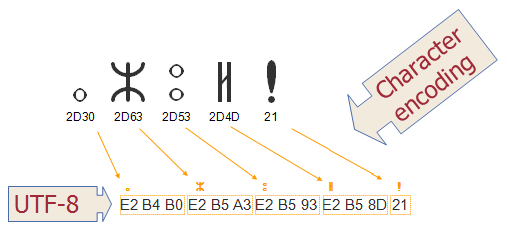
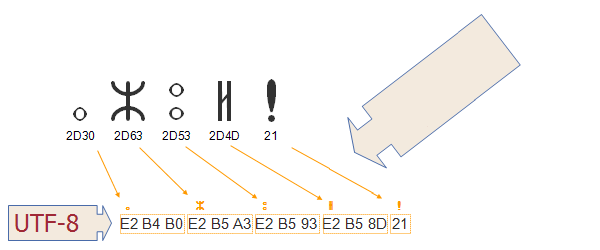
articles/definitions-characters, Convert 3 more pictures to svg to make translation easier

diff --git a/articles/definitions-characters/index.fr.html b/articles/definitions-characters/index.fr.html
@@ -72,8 +72,18 @@ th.bytes { font-size: 20px; }
   <p>Le <a class="print" href="http://www.unicode.org/">Consortium Unicode</a> offre un jeu de caractères unique et de grande taille qui vise à inclure tous les caractères nécessaires à tous les systèmes d’écriture du monde, y compris les écritures anciennes telles que le cunéiforme, le gothique et les hiéroglyphes égyptiens. Ce jeu de caractères est maintenant fondamental pour l’architecture du Web et les systèmes d’exploitation et est pris en charge par la majorité des navigateurs web et autres applications. Le <a class="print" href="http://www.unicode.org/standard/standard.html">Standard Unicode</a> décrit par ailleurs les propriétés et algorithmes requis pour travailler avec les caractères.</p>
   <p>Cette approche facilite considérablement la gestion des pages et systèmes multilingues et offre une bien meilleure réponse aux besoins que la plupart des anciens systèmes d’encodage. </p>
   <p>Voici une illustration des blocs d’écriture Unicode dans sa version 5.2&nbsp;:</p>
-  <p><img src="index-data/unicodeblocks.png" alt="Blocs Unicode" /></p>
-  <div class="sidenoteGroup">
+<div style="margin-left: 7.5%;">
+<svg width="600px" height="450px" xmlns="http://www.w3.org/2000/svg" viewBox="0 0 600 450"> 
+  
+  <image xlink:href="index-data/unicodeblocks.png" alt="Blocs Unicode." x="0" y="0" width="533" height="419"/> 
+  <use xlink:href="#arrowRight" x="155" y="25"></use> 
+<text x="355" y="80" style="font-weight:normal; font-size:24px;text-align:left; fill:#9f2936; text-anchor: center;">Unicode</text> 
+</svg>
+</div>
+  
+  
+  
+<div class="sidenoteGroup">
     <p>Les 65 536&nbsp;premières positions de points de code dans le jeu de caractères Unicode sont considérées comme constituant le <dfn>Plan multilingue de base (Basic Multilingual Plane - BMP)</dfn>. Le BMP inclut la plupart des caractères les plus courants.</p>
     <div class="sideinfonote"><p class="info">Le nombre 65 536&nbsp;correspond à 2 à la puissance 16, en d’autres termes, c’est le nombre maximal de permutations que l’on peut obtenir avec 2 octets.</p></div>
   </div>
@@ -81,7 +91,7 @@ th.bytes { font-size: 20px; }
   
   
   <div style="margin-left: 7.5%;">
-  <svg width="750px" height="450px" xmlns="http://www.w3.org/2000/svg" viewBox="0 0 600 450"> 
+  <svg width="600px" height="450px" xmlns="http://www.w3.org/2000/svg" viewBox="0 0 600 450"> 
   
   <image xlink:href="index-data/unicodeplanes.png" alt="Les 17 plans du jeu de caractères Unicode." x="0" y="0" width="533" height="419"/> 
   <use xlink:href="#arrowRight" x="155" y="25"></use> 
@@ -105,13 +115,33 @@ th.bytes { font-size: 20px; }
   <p>Un <dfn>jeu de caractères</dfn> ou <dfn>répertoire</dfn> comprend l’ensemble des caractères que l’on souhaite utiliser dans un but donné, que ce soit les caractères nécessaires à la prise en charge des langues d’Europe occidentale dans un ordinateur, ou ceux qu’un enfant chinois doit apprendre à l’école primaire (sans aucun rapport avec les ordinateurs).</p>
   <p>Un <dfn>jeu de caractères encodé</dfn> est un jeu de caractères dans lequel un numéro unique a été associé à chaque caractère. On appelle <dfn>point de code</dfn> l’unité d’un tel ensemble et valeur du point de code la position du caractère dans cet ensemble. Par exemple, le point de code pour la lettre <span class="qchar">á</span> dans le jeu de caractères encodé Unicode a pour valeur 225 en notation décimale et 0xE1  en notation hexadécimale. Remarquons que la notation hexadécimale est fréquemment utilisée pour se référer à des valeurs de points de code et sera adoptée ici. Un point de code Unicode peut avoir une valeur comprise entre 0x0000 et 0x10FFF.</p><p>On appelle également pages de code les jeux de caractères encodés. </p>
   <p>Un <dfn>encodage de caractères</dfn> est une méthode pour associer les jeux de caractères encodés à des octets pour manipulation dans un ordinateur. L’image ci-dessous illustre la manière dont les caractères et les points de code en écriture tifinagh (berbère) sont associés à des séquences d’octets en mémoire à l’aide de l’encodage UTF-8. Les valeurs de point de code pour chaque caractère sont données directement sous le glyphe du caractère (c.-à-d sa représentation graphique) au sommet du diagramme. Les flèches montrent comment les valeurs de point de code sont associées à des séquences d’octets représentés par un nombre hexadécimal à deux chiffres. On remarque que les points de code du tifinagh sont associés à trois octets, mais que le point d’exclamation est associé à un seul octet.</p>
-  <p><img src="index-data/encodings-utf8.png" alt="Les caractères sont associés à des octets." /></p>
-  <p>Ces explications ne font que survoler une partie de la terminologie en rapport avec les encodages. Vous pouvez trouver plus d’informations dans le <a class="print" href="http://unicode.org/reports/tr17/"><cite>Unicode Technical Report #17</cite></a>. </p>
+<div style="margin-left: 7.5%;">
+<svg width="600px" height="250px" xmlns="http://www.w3.org/2000/svg" viewBox="0 0 600 250"> 
+  
+  <image xlink:href="index-data/encodings-utf8.png" alt="Les caractères sont associés à des octets." x="0" y="0" width="600" height="250"/> 
+  <use xlink:href="#arrowRight" x="155" y="25"></use> 
+  <text x="390" y="120" style="font-weight:normal; font-size:20px;text-align:left; fill:#9f2936; text-anchor: center;" transform="rotate(-40,390,120)">Encodage de</text> 
+  <text x="405" y="138" style="font-weight:normal; font-size:20px;text-align:left; fill:#9f2936; text-anchor: center;" transform="rotate(-40,405,138)">caractères</text> 
+  </svg>
+</div>
+  
+  
+<p>Ces explications ne font que survoler une partie de la terminologie en rapport avec les encodages. Vous pouvez trouver plus d’informations dans le <a class="print" href="http://unicode.org/reports/tr17/"><cite>Unicode Technical Report #17</cite></a>. </p>
   <p><span class="leadin"><a name="multipleencodings" id="multipleencodings">Un jeu de caractères, plusieurs encodages.</a></span> De nombreux standards d’encodage de caractères, tels que ceux de la série ISO 8859, utilisent un seul octet pour chaque caractère. L’encodage est alors une association simple avec la position scalaire du caractère dans le jeu de caractères encodé. Par exemple, dans le jeu de caractères encodé ISO 8859-1 la lettre <span class="qchar">A</span> est en 65e position (à partir de zéro) et pour sa représentation dans l’ordinateur est encodée à l’aide d’un octet dont la valeur est 65. Pour le jeu de caractères encodé ISO 8859-1, cette valeur ne change jamais.</p>
   <p>Pour Unicode, cependant, les choses ne sont pas aussi simples. Bien que le point de code pour la lettre <span class="qchar">á</span> dans le jeu de caractères encodé Unicode est 225 (en notation décimale), en UTF-8 et dans l’ordinateur elle est représentée par deux octets. En d’autres termes, pour un caractère donné il n’existe pas d’association simple biunivoque entre sa valeur dans le jeu de caractères encodé et sa valeur encodée.</p>
   <p>De plus, en Unicode, il existe plusieurs méthodes d’encodage pour un même caractère. Par exemple, la lettre <span class="qchar">á</span> peut être représentée par deux octets dans un encodage et par quatre dans un autre. Les <dfn>formes d’encodage</dfn> utilisable avec Unicode sont appelées UTF-8, UTF-16 et UTF-32.</p>
-  <p><img src="index-data/encodings.png" alt="Les caractères sont associés à des octets." /></p>
-  <p>UTF-8 utilise 1 octet pour représenter les caractères du jeu ASCII, deux octets pour les caractères de certains autres blocs alphabétiques et trois octets pour le reste du BMP. Les caractères supplémentaires utilisent 4 octets.</p>
+<div style="margin-left: 7.5%;">
+<svg width="600px" height="395px" xmlns="http://www.w3.org/2000/svg" viewBox="0 0 600 395"> 
+  
+  <image xlink:href="index-data/encodings.png" alt="Les caractères sont associés à des octets." x="0" y="0" width="600" height="395"/> 
+  <use xlink:href="#arrowRight" x="155" y="25"></use> 
+  <text x="390" y="120" style="font-weight:normal; font-size:20px;text-align:left; fill:#9f2936; text-anchor: center;" transform="rotate(-40,390,120)">Encodage de</text> 
+  <text x="405" y="138" style="font-weight:normal; font-size:20px;text-align:left; fill:#9f2936; text-anchor: center;" transform="rotate(-40,405,138)">caractères</text> 
+  </svg>
+</div>
+  
+  
+<p>UTF-8 utilise 1 octet pour représenter les caractères du jeu ASCII, deux octets pour les caractères de certains autres blocs alphabétiques et trois octets pour le reste du BMP. Les caractères supplémentaires utilisent 4 octets.</p>
   <p>UTF-16 utilise 2 octets pour tous les caractères du BMP et 4 pour les caractères supplémentaires.</p>
   <p>UTF-32 utilise 4 octets pour tous les caractères.</p>
   <p>Dans la table suivante, la première ligne représente la position du caractère dans le jeu de caractères encodé Unicode. Les autres lignes donnent la valeur des octets utilisés pour représenter le caractère dans l’encodage de caractères indiqué.</p>

diff --git a/articles/definitions-characters/index.en.html b/articles/definitions-characters/index.en.html
@@ -73,8 +73,19 @@ th.bytes { font-size: 20px; }
   <p>The <a class="print" href="http://www.unicode.org/">Unicode Consortium</a> provides a large, single character set that aims to include all the characters needed for any writing system in the world, including ancient scripts (such as Cuneiform, Gothic and Egyptian Hieroglyphs). It is now fundamental to the architecture of the Web and operating systems, and is supported by all major web browsers and applications. The <a class="print" href="http://www.unicode.org/standard/standard.html">Unicode Standard</a> also describes properties and algorithms for working with characters.</p>
   <p>This approach makes it much easier to deal with multilingual pages or systems, and provides much better coverage of your needs than most traditional encoding systems. </p>
   <p>The following shows Unicode script blocks as of Unicode version 5.2:</p>
-  <p><img src="index-data/unicodeblocks.png" alt="Unicode blocks" /></p>
-  <div class="sidenoteGroup">
+
+<div style="margin-left: 7.5%;">
+<svg width="600px" height="450px" xmlns="http://www.w3.org/2000/svg" viewBox="0 0 600 450"> 
+  
+  <image xlink:href="index-data/unicodeblocks.png" alt="Blocs Unicode." x="0" y="0" width="533" height="419"/> 
+  <use xlink:href="#arrowRight" x="155" y="25"></use> 
+<text x="355" y="80" style="font-weight:normal; font-size:24px;text-align:left; fill:#9f2936; text-anchor: center;">Unicode</text> 
+</svg>
+</div>
+  
+
+
+<div class="sidenoteGroup">
     <p>The first 65,536 code point positions in the Unicode character set are said to constitute the <dfn>Basic Multilingual Plane (BMP)</dfn>. The BMP includes most of the more commonly used characters.</p>
     <div class="sideinfonote"><p class="info">The number 65,536 is 2 to the power of 16.  In other words, the maximum number of bit permutations you can get in two bytes.</p></div>
   </div>
@@ -107,7 +118,19 @@ th.bytes { font-size: 20px; }
     commonly used for referring to code points, and will be used here.) A Unicode code point can have a value between 0x0000 and 0x10FFFF.</p><p>Coded character sets are sometimes called code pages. </p>
   <p>The <dfn>character encoding</dfn> reflects the way the coded character set is mapped to bytes for manipulation in
     a computer. The picture below shows how characters and code points in the Tifinagh (Berber)  script are mapped to sequences of bytes in memory using the UTF-8 encoding. The code point values for each character are listed immediately below the glyph (ie. the visual representation) for that character at the top of the diagram. The arrows show how those are mapped to sequences of bytes, where each byte is represented by a two-digit hexadecimal number. Note how the Tifinagh code points map to three bytes, but the exclamation mark maps to a single byte.</p>
-  <p><img src="index-data/encodings-utf8.png" alt="Picture of how characters map to bytes." /></p>
+  
+
+<div style="margin-left: 7.5%;">
+<svg width="600px" height="250px" xmlns="http://www.w3.org/2000/svg" viewBox="0 0 600 250"> 
+  
+  <image xlink:href="index-data/encodings-utf8.png" alt="Les caractères sont associés à des octets." x="0" y="0" width="600" height="250"/> 
+  <use xlink:href="#arrowRight" x="155" y="25"></use> 
+  <text x="390" y="120" style="font-weight:normal; font-size:20px;text-align:left; fill:#9f2936; text-anchor: center;" transform="rotate(-40,390,120)">Character</text> 
+  <text x="405" y="138" style="font-weight:normal; font-size:20px;text-align:left; fill:#9f2936; text-anchor: center;" transform="rotate(-40,405,138)">encoding</text> 
+  </svg>
+</div>
+  
+  
   <p>This explanation glosses over some of the detailed nomenclature related to encoding. More detail can be found in <a class="print" href="http://unicode.org/reports/tr17/"><cite>Unicode Technical
     Report #17</cite></a>. </p>
   <p><span class="leadin"><a name="multipleencodings" id="multipleencodings">One character set, multiple encodings.</a></span> Many character encoding standards, such as those in the ISO 8859 series, use a single byte for a given character and the encoding is
@@ -118,7 +141,20 @@ th.bytes { font-size: 20px; }
     one-to-one mapping between the coded character set value and the encoded value for this character.</p>
   <p>In addition, in Unicode there are a number of ways of encoding the same character. For example, the letter <span class="qchar">á</span> can be represented by two bytes in one encoding and four bytes in another. The <dfn>encoding forms</dfn> that can be used with Unicode
     are called UTF-8, UTF-16, and UTF-32.</p>
-  <p><img src="index-data/encodings.png" alt="Picture of how characters map to bytes." /></p>
+
+
+<div style="margin-left: 7.5%;">
+<svg width="600px" height="395px" xmlns="http://www.w3.org/2000/svg" viewBox="0 0 600 395"> 
+  
+  <image xlink:href="index-data/encodings.png" alt="Les caractères sont associés à des octets." x="0" y="0" width="600" height="395"/> 
+  <use xlink:href="#arrowRight" x="155" y="25"></use> 
+  <text x="390" y="120" style="font-weight:normal; font-size:20px;text-align:left; fill:#9f2936; text-anchor: center;" transform="rotate(-40,390,120)">Character</text> 
+  <text x="405" y="138" style="font-weight:normal; font-size:20px;text-align:left; fill:#9f2936; text-anchor: center;" transform="rotate(-40,405,138)">encodings</text> 
+  </svg>
+</div>
+  
+  
+
   <p>UTF-8 uses 1 byte to represent characters in the ASCII set, two bytes for characters in several more alphabetic blocks, and three
     bytes for the rest of the BMP. Supplementary characters use 4 bytes.</p>
   <p>UTF-16 uses 2 bytes for any character in the BMP, and 4 bytes for supplementary characters.</p>
